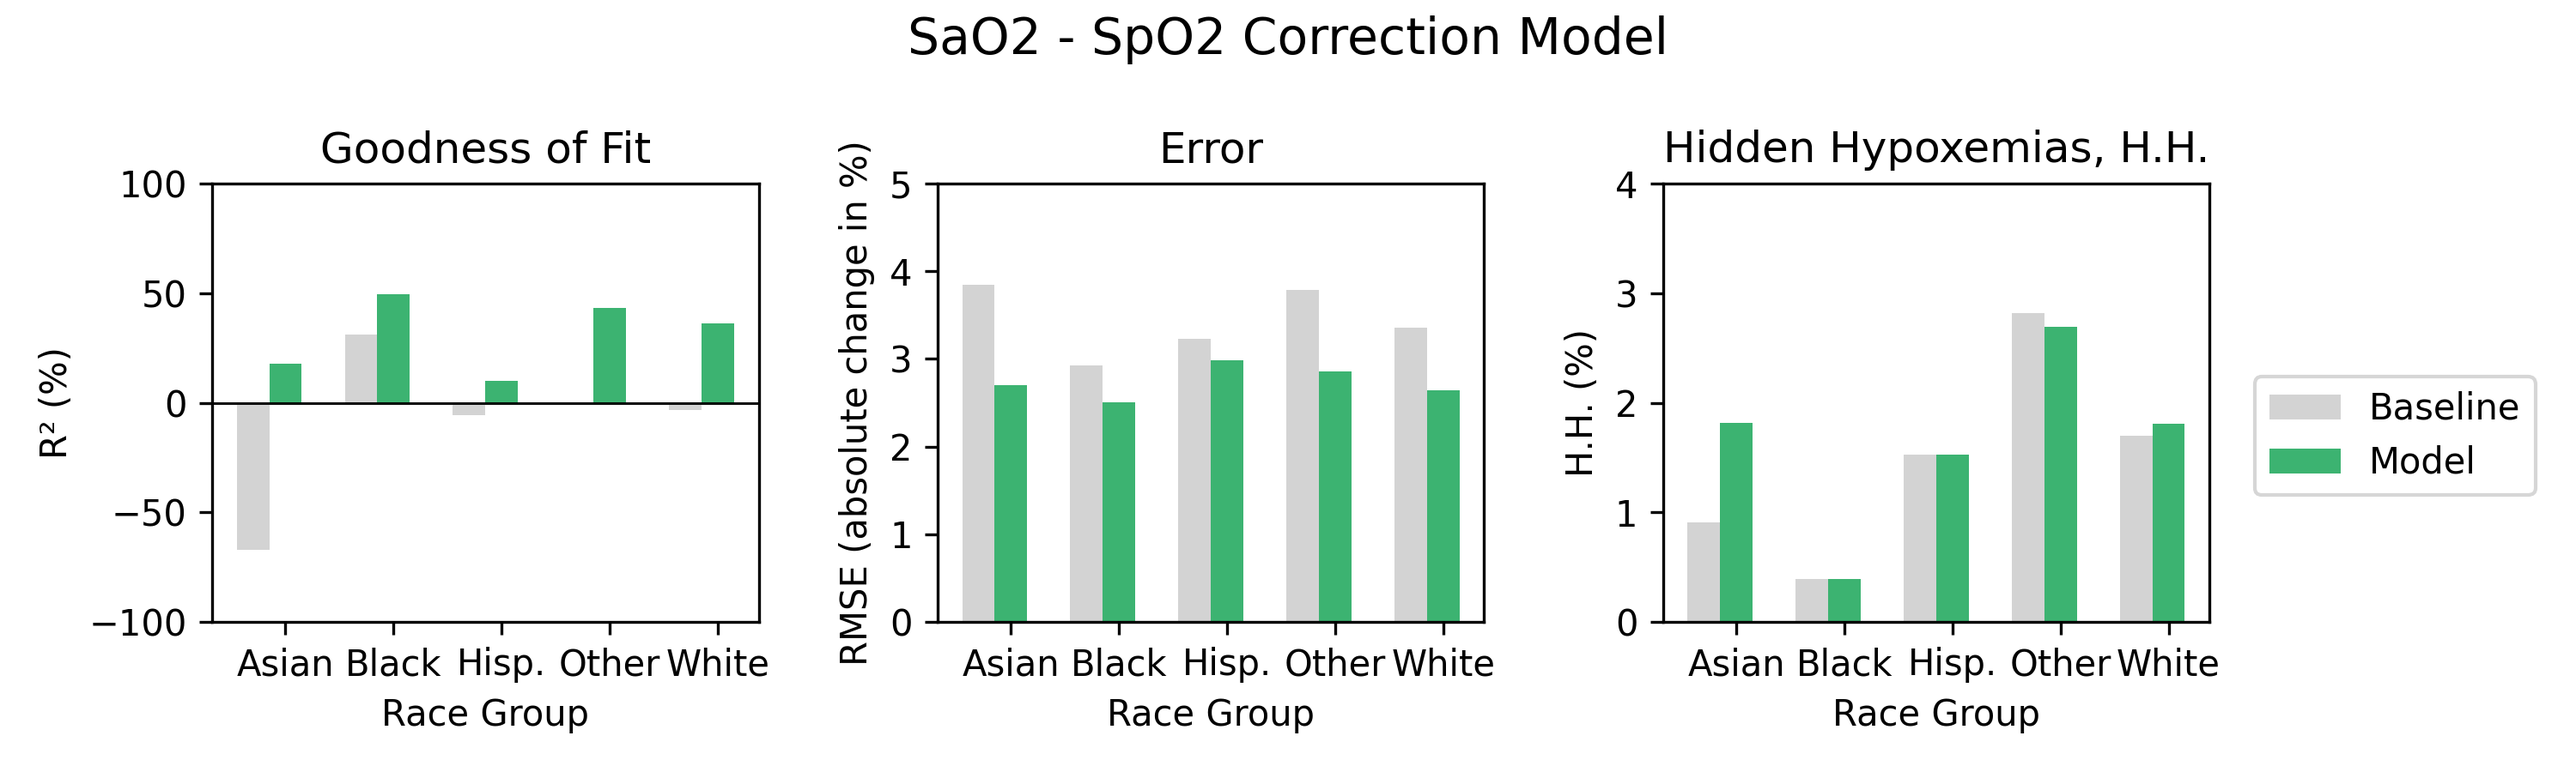
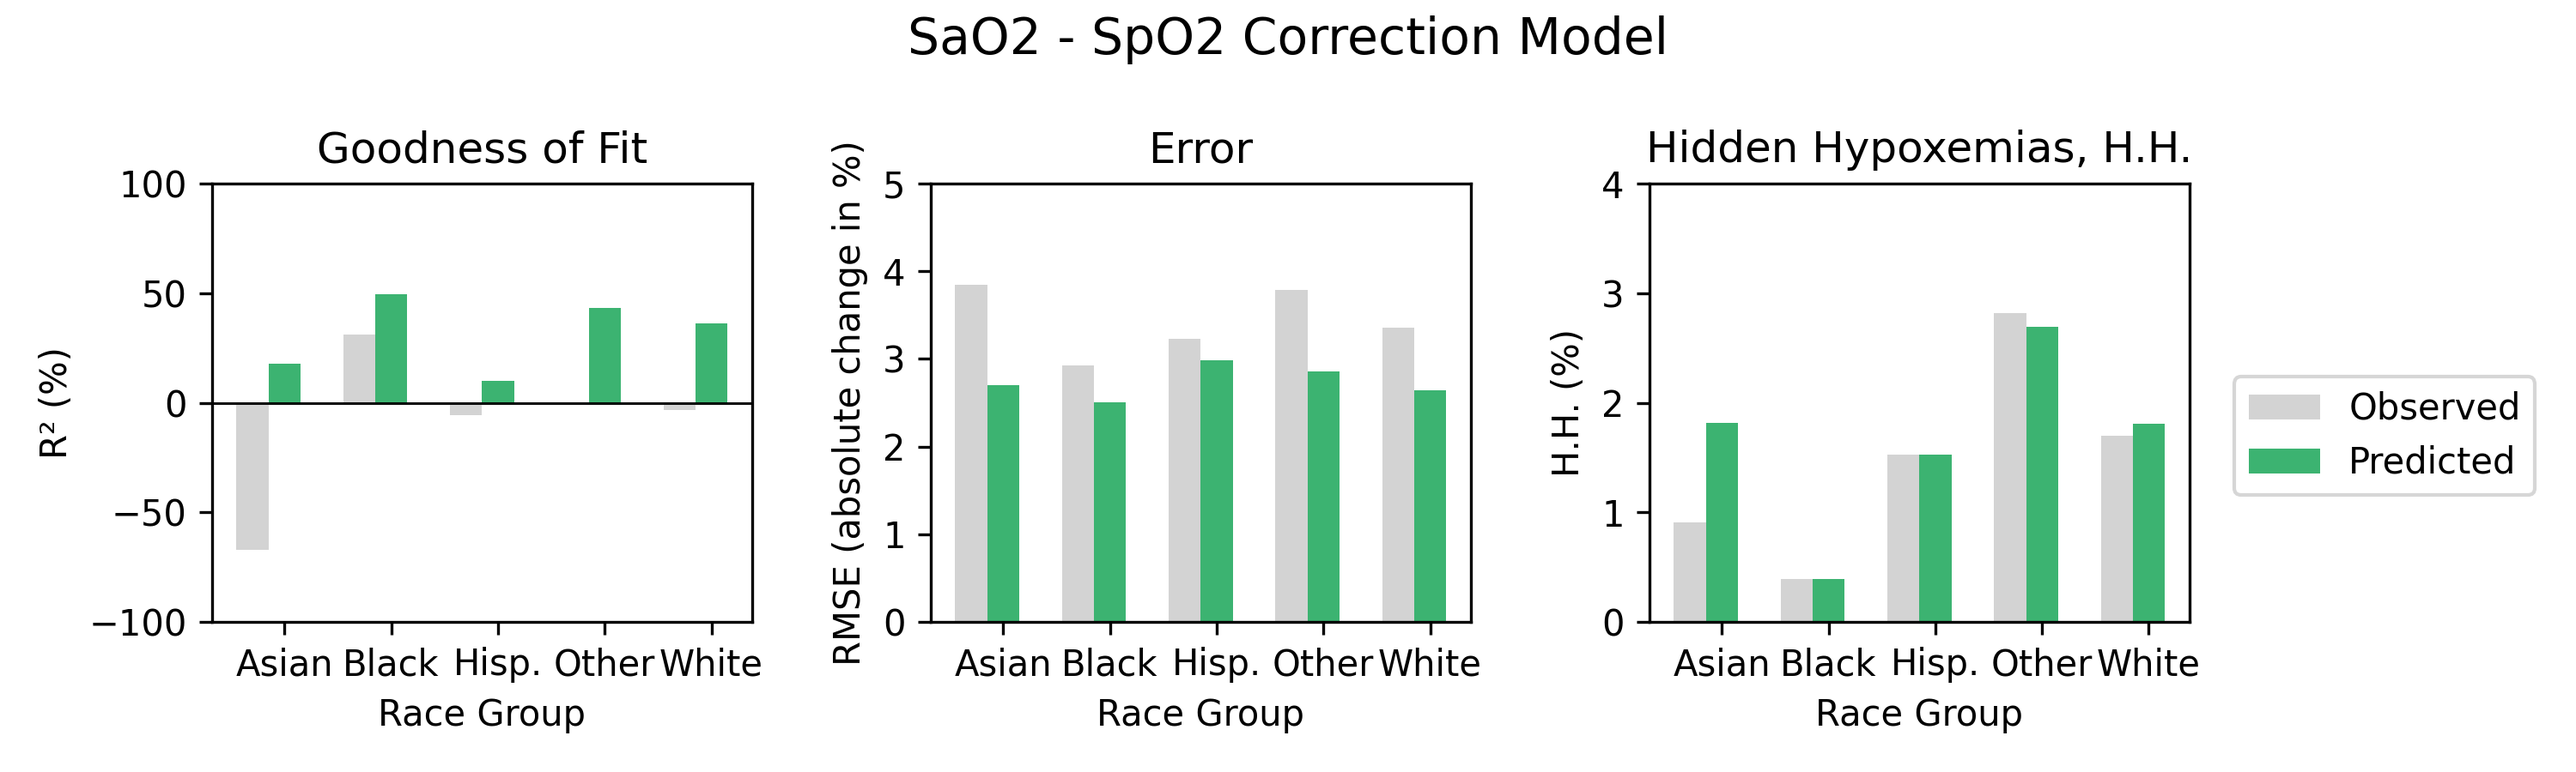
Tweak results plot

diff --git a/src/9_plot_results.py b/src/9_plot_results.py
@@ -17,11 +17,11 @@ def plot_results(model_name):
     fig, axs = plt.subplots(1,3, figsize=(10, 3))
     axs[0].bar(xx-.3, data.loc['Baseline R²'] * 100,
             width=.3, 
-            color='lightgray', label='Baseline')
+            color='lightgray', label='Observed')
 
     axs[0].bar(xx, data.loc['Model R²'] * 100,
             width=.3, #alpha=.8,
-            color='mediumseagreen', label='Model')
+            color='mediumseagreen', label='Predicted')
 
     axs[0].set_title('Goodness of Fit')
     axs[0].set_xticks(xx, data.columns)
@@ -34,11 +34,11 @@ def plot_results(model_name):
     # create the second subplot with baseline and model RMSE
     axs[1].bar(xx-.3, data.loc['Baseline RMSE'],
             width=.3,
-            color='lightgray', label='Baseline')
+            color='lightgray', label='Observed')
 
     axs[1].bar(xx, data.loc['Model RMSE'],
             width=.3,
-            color='mediumseagreen', label='Model')
+            color='mediumseagreen', label='Predicted')
 
     axs[1].set_title('Error')
     axs[1].set_xticks(xx, data.columns)
@@ -51,11 +51,11 @@ def plot_results(model_name):
     # create the second subplot with baseline and model HH
     axs[2].bar(xx-.3, data.loc['Baseline HH'] / data.loc['N'] * 100,
             width=.3,
-            color='lightgray', label='Baseline')
+            color='lightgray', label='Observed')
 
     axs[2].bar(xx, data.loc['Model HH'] / data.loc['N'] * 100,
             width=.3,
-            color='mediumseagreen', label='Model')
+            color='mediumseagreen', label='Predicted')
 
     axs[2].set_title('Hidden Hypoxemias, H.H.')
     axs[2].set_xticks(xx, data.columns)
